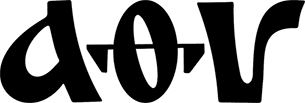
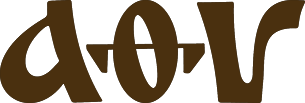
added footer

diff --git a/index.html b/index.html
@@ -21,7 +21,7 @@
         <input type="checkbox" id="checkbox_toggle" />
         <label for="checkbox_toggle" class="hamburger">&#9776;</label>
         <div class="menu">
-          <li><a href="#home">Главная</a></li>
+          <li><a href="#">Главная</a></li>
           <li class="services">
             <a href="/">Книги <small>&#x25BC;</small></a>
             <ul class="dropdown" style="line-height: 0.5rem;">
@@ -94,13 +94,13 @@
 
     <div class="card" style="margin: 0% 20% 0% 20%;">
 
-      <p><img src="./images/athv.gif" width="40px" alt="Аз Фита Ижица"> – <strong>Аз Фита́ Ижица</strong> – сказка с элементами реальности для взрослых, где то, что выглядит реальностью – выдумка, а то, что кажется сказкой – действительный опыт автора.</p>
+      <p><img src="./images/az.png" width="40px" alt="Аз Фита Ижица"> – <strong>Аз Фита́ Ижица</strong> – сказка с элементами реальности для взрослых, где то, что выглядит реальностью – выдумка, а то, что кажется сказкой – действительный опыт автора.</p>
 
-      <p><img src="./images/athv.gif" width="40px" alt="Аз Фита Ижица"> – <strong>Аз Фита́ Ижица</strong> – руны Славянской Азбуки. Расшифровка всех рун приводится в главе 48 «Ключ» (часте I «Прогулка по висячему мостику», книга 3 «Точка Выбора») , а так же в Приложении ко всем книгам части II «Хаос в калейдоскопе» и части III «Остров бродячих собак».</p>
+      <p><img src="./images/az.png" width="40px" alt="Аз Фита Ижица"> – <strong>Аз Фита́ Ижица</strong> – руны Славянской Азбуки. Расшифровка всех рун приводится в главе 48 «Ключ» (часте I «Прогулка по висячему мостику», книга 3 «Точка Выбора») , а так же в Приложении ко всем книгам части II «Хаос в калейдоскопе» и части III «Остров бродячих собак».</p>
       
       <p>Расшифровка каждого символа очень многогранна. Если с ее помощью сделать полный перевод названия «Аз Фита́ Ижица» на современный русский язык, получится весьма объемная статья. Невообразимо краткий и ужасно куцый перевод представляет собой примерно следующее:<br>Истинное «Я» предопределяет течение своей человеческой жизни.</p>
 
-      <p><img src="./images/athv.gif" width="40px" alt="Аз Фита Ижица"> – <strong>Аз Фита́ Ижица</strong> состоит из двух блоков: блока для сознания и блока для подсознания. Оба эти блока в повествовании тщательно сплетены и перемешаны друг с другом.</p>
+      <p><img src="./images/az.png" width="40px" alt="Аз Фита Ижица"> – <strong>Аз Фита́ Ижица</strong> состоит из двух блоков: блока для сознания и блока для подсознания. Оба эти блока в повествовании тщательно сплетены и перемешаны друг с другом.</p>
 
       <p><strong>Блок для сознания</strong> занимает меньшую часть общего объема книги и требует чтения с включенными
         мозгами. Блок для сознания – это прямые теоретические объяснения, что есть что, как это все устроено, как это
@@ -126,7 +126,7 @@
 
       <p>Главные персонажи книг постоянно в совершенно обычных жизненных ситуациях пользуются особыми техниками, описание которых есть в блоке для сознания.</p>
 
-      <p><img src="./images/athv.gif" width="40px" alt="Аз Фита Ижица"> – <strong>Аз Фита́ Ижица</strong> – единое произведение, где каждая последующая книга предполагает, что читатель хорошо знаком с сюжетным, а самое главное, НЕ ТОЛЬКО СЮЖЕТНЫМ содержанием предыдущих.</p>
+      <p><img src="./images/az.png" width="40px" alt="Аз Фита Ижица"> – <strong>Аз Фита́ Ижица</strong> – единое произведение, где каждая последующая книга предполагает, что читатель хорошо знаком с сюжетным, а самое главное, НЕ ТОЛЬКО СЮЖЕТНЫМ содержанием предыдущих.</p>
 
       <p><em>Время действия</em>: начало XXI века. <br><em>Основное место действия</em>: город Сочи.</p>
 
@@ -141,10 +141,14 @@
       <p><small>Часть III.</small> <strong>«Остров бродячих собак»</strong></p>
       
       <p>«…и жили они долго и счастливо» – так заканчивается огромное количество историй, рассказанных людьми. А как это, СЧАСТЛИВО? Постижение СЧАСТЬЯ на практике человеческой жизни раскрывает для Ирины Палладиной ее собственные тайны.</p>
-
-      
     </div>
 
+<footer>
+  <ul>
+    <il>&#169; 2014 Екатерина Трубицина</il>
+    <il style="margin-left: 45vw;"><a href="#" style="color: white;">Вверх</a></il>
+  </ul>
+</footer>
 
   </div>
 </body>

diff --git a/index.css b/index.css
@@ -11,34 +11,42 @@ body {
 hr.line {
   margin-top: 3rem;
   margin-bottom: 3rem;
-  border: 1px solid #2d1b07;
+  border: 1px solid #4a300f;
 }
 
 h1 {
   text-align: center;
   font-size: 4rem;
-  color: #2d1b07;
+  color: #4a300f;
 }
 
 h2 {
   font-size: 1.7rem;
-  color: #2d1b07;
+  color: #4a300f;
 }
 
 h3 {
   font-size: 1.1vw;
-  color: #2d1b07;
+  color: #4a300f;
 }
 
 p {
   font-size: 1.2rem;
-  color: #2d1b07;
+  color: #4a300f;
 }
 
 .container {
   max-width: 1600px;
   margin: auto;
   height: auto;
+}
+
+footer {
+  background: linear-gradient(0.25turn, #020001, #9d752d);
+  margin-top: 2rem;
+  padding: 10px;
+
+  color: white;
 }
 
 .button {
@@ -48,7 +56,7 @@ p {
   margin: -1rem;
   width: 100%;
   border-radius: 20px;
-  background: url('button.jpg') no-repeat;
+  background: linear-gradient(0.25turn, #020001, #9d752d);
 }
 
 a {
@@ -67,11 +75,11 @@ li {
   justify-content: space-between;
   padding: 0px 20px 0px 20px;
   background-color: white;
-  color: black;
+  color: #4a300f;
 }
 
 .nav-links a {
-  color: black;
+  color: #4a300f;
 }
 
 /* NAVBAR MENU */
@@ -194,7 +202,6 @@ input[type=checkbox] {
 .card {
   box-shadow: 0 4px 8px 0 rgba(0, 0, 0, 0.2);
   border: 1px solid #9c958d;
-  color: white;
   padding: 1% 3% 1% 3%;
   background-color: white;
   border-radius: 7px;
@@ -218,17 +225,17 @@ input[type=checkbox] {
 
   h2 {
     font-size: 1.5vw;
-    color: #2d1b07;
+    color: #4a300f;
   }
 
   h3 {
     font-size: 1.4vw;
-    color: #2d1b07;
+    color: #4a300f;
   }
 
   p {
     font-size: 1vw;
-    color: #2d1b07;
+    color: #4a300f;
   }
 
 }
